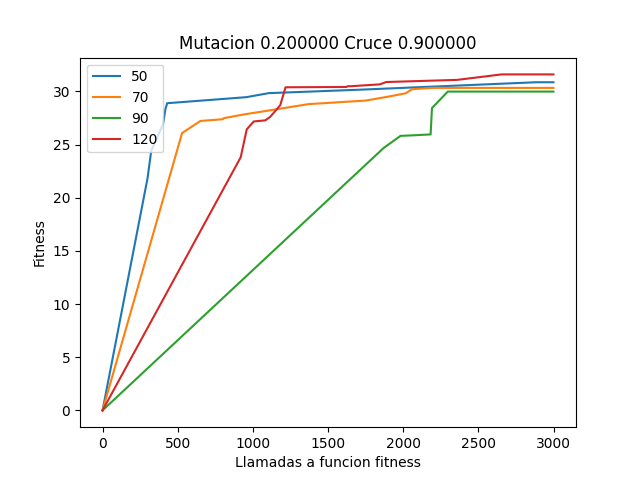
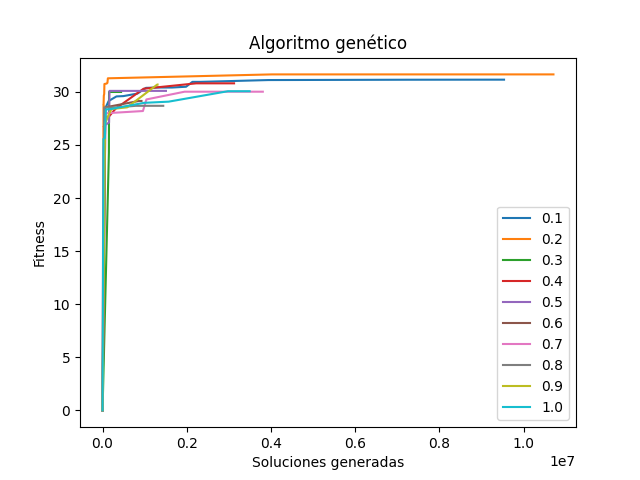
ok

diff --git a/TIA/genetic.py b/TIA/genetic.py
@@ -47,8 +47,6 @@ def pop_replace(pop, children, inmortales):
 	new_pop = []
 	no_elements_to_keep = int(len(pop) * 0.5)
 	new_pop = list(random.sample(pop, no_elements_to_keep) + children)
-	new_pop.sort()
-	new_pop = list(k for k,_ in itertools.groupby(new_pop))
 	for inmortal in inmortales:
 		if inmortal not in new_pop:
 			new_pop.append(inmortal)
@@ -82,7 +80,7 @@ def genetic_algorithm(objective, n_iter, n_pop, r_cross, r_mut, jugadores):
 				print(">%d, new best f(%s) = %.3f" % (gen,  pop[i], scores[i]))
 				registro.append((best_eval, llamadas_fitness))
 		# Los mejores no mueren
-		if best not in inmortales:
+		if best not in inmortales and best != pop[0]:
 			inmortales.append(best)
 		# Padres seleccionados
 		selected = [selection(pop, scores, 10) for _ in range(int(len(pop)*r_cross))]
@@ -117,10 +115,10 @@ parser = argparse.ArgumentParser(description='Algoritmo genetico para selecciona
 parser.add_argument('-g', type=int,
                     help='Numero de generaciones')
 
-parser.add_argument("-p", type=int, default=[], nargs="+",
-					help="Tamaños de poblacion iniciales")
+parser.add_argument("-p", type=int,
+					help="Tamaño de poblacion iniciales")
 
-parser.add_argument('-rm', type=float,
+parser.add_argument("-rm", type=float, default=[], nargs="+",
                     help='Ratio de mutacion')
 
 parser.add_argument('-rc', type=float,
@@ -134,8 +132,8 @@ jugadores = cargarJugadores()
 r_cross = args.rc
 r_mut = args.rm
 
-for poblacion in tamaño_poblacion:
-	best, score, resultados = genetic_algorithm(fo, generaciones, poblacion, r_cross, r_mut, jugadores)
+for rms in r_mut:
+	best, score, resultados = genetic_algorithm(fo, generaciones, tamaño_poblacion, r_cross, rms, jugadores)
 	print(resultados)
 	print('Done!')
 	for j in best:
@@ -146,9 +144,9 @@ for poblacion in tamaño_poblacion:
 	x = [i[1] for i in resultados]
 	y = [i[0] for i in resultados]
 
-	plt.plot(x, y, label=str(poblacion))
+	plt.plot(x, y, label=str(rms))
 
-plt.title("Mutacion %.2f Cruce %.2f" % (r_mut, r_cross))
+plt.title("Algoritmo genético")
 plt.xlabel("Soluciones generadas")
 plt.legend(loc="lower right")
 plt.ylabel("Fitness")

diff --git a/TIA/simcool.py b/TIA/simcool.py
@@ -1,5 +1,6 @@
 from collections import Counter
 import random
+import matplotlib.pyplot as plt
 from numpy.random import randint
 import math
 import csv
@@ -11,11 +12,11 @@ def simulated_annealing(initial_state, jugadores):
     alpha = 0.01
     
     current_temp = initial_temp
-    
+    results = []
     # Start by initializing the current state with the initial state
     current_state = initial_state
     solution = current_state
-
+    iteracion = 1
     while current_temp > final_temp:
         neighbor = random.choice(get_neighbors(current_state, jugadores))
 
@@ -37,8 +38,10 @@ def simulated_annealing(initial_state, jugadores):
                 print("Worst accepted: ", solution)
         # decrement the temperature
         current_temp /= (1+(alpha*current_temp))
+        results.append((get_cost(current_state, jugadores), iteracion))
+        iteracion += 1
 
-    return solution
+    return solution, results
 
 def get_cost(state, jugadores):
     """Calculates cost of the argument state for your solution."""
@@ -78,9 +81,17 @@ def cargarJugadores():
 
 jugadores = cargarJugadores()
 init_state = [random.randint(0, len(jugadores)-1) for _ in range(9)]
-best = simulated_annealing(init_state, jugadores)
+best, resultados = simulated_annealing(init_state, jugadores)
 print("Done", best)
 for j in best:
     print(jugadores[j])
 print('Coste: %i' % (sum([jugadores[j]["precio"] for j in best])))
 print('Puntuacion: %i' % (get_cost(best, jugadores)))
+x = [i[1] for i in resultados]
+y = [i[0] for i in resultados]
+
+plt.plot(x,y)
+plt.title("Enfriamiento simulado")
+plt.xlabel("Iteracion")
+plt.ylabel("Fitness")
+plt.show()
